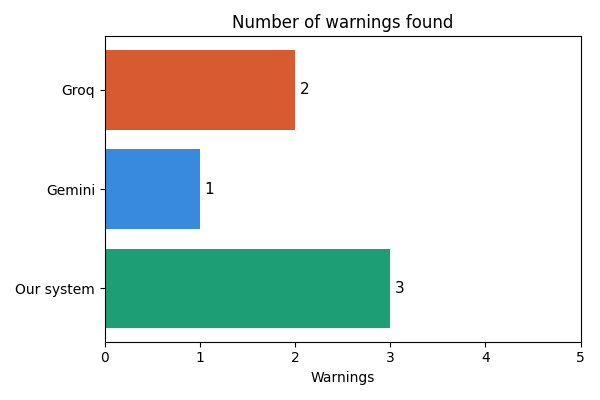
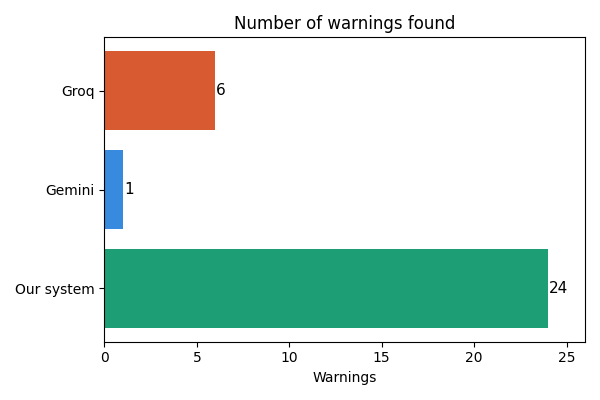
Fix analysis route, real Gemini API, min dose validation

diff --git a/frontend/src/pages/Analyze.js b/frontend/src/pages/Analyze.js
@@ -70,6 +70,7 @@ function DrugInput({ index, drug, onChange, onRemove }) {
               style={styles.doseInput}
               type="number"
               placeholder="100"
+              min="1"
               value={drug.daily_dose}
               onChange={(e) => onChange(index, 'daily_dose', e.target.value)}
             />

diff --git a/benchmark/evaluate.py b/benchmark/evaluate.py
@@ -34,14 +34,14 @@ def run_our_system(drug_entries, patient_data):
 
 def call_gemini(drug_entries, patient_data):
     """Calls real Gemini API."""
-    import google.generativeai as genai
+    from google import genai
+    from google.genai import types
 
     api_key = os.environ.get("GEMINI_API_KEY")
     if not api_key:
         return ["ERROR: Gemini API key not found"], 0
 
-    genai.configure(api_key=api_key)
-    model = genai.GenerativeModel("gemini-2.0-flash")
+    client = genai.Client(api_key=api_key)
 
     prompt = f"""You are a clinical pharmacist. Analyze the following drug combination for a patient and list safety warnings.
 
@@ -55,7 +55,10 @@ Respond with ONLY the Python list, nothing else."""
 
     start = time.time()
     try:
-        response = model.generate_content(prompt)
+        response = client.models.generate_content(
+            model="gemini-2.0-flash",
+            contents=prompt
+        )
         elapsed = time.time() - start
         text = response.text.strip()
         warnings = ast.literal_eval(text)
@@ -63,7 +66,7 @@ Respond with ONLY the Python list, nothing else."""
             warnings = [text]
     except Exception as e:
         elapsed = time.time() - start
-        warnings = ["Quota exceeded — try again later"]
+        warnings = [f"ERROR: {str(e)}"]
 
     return warnings, elapsed
 